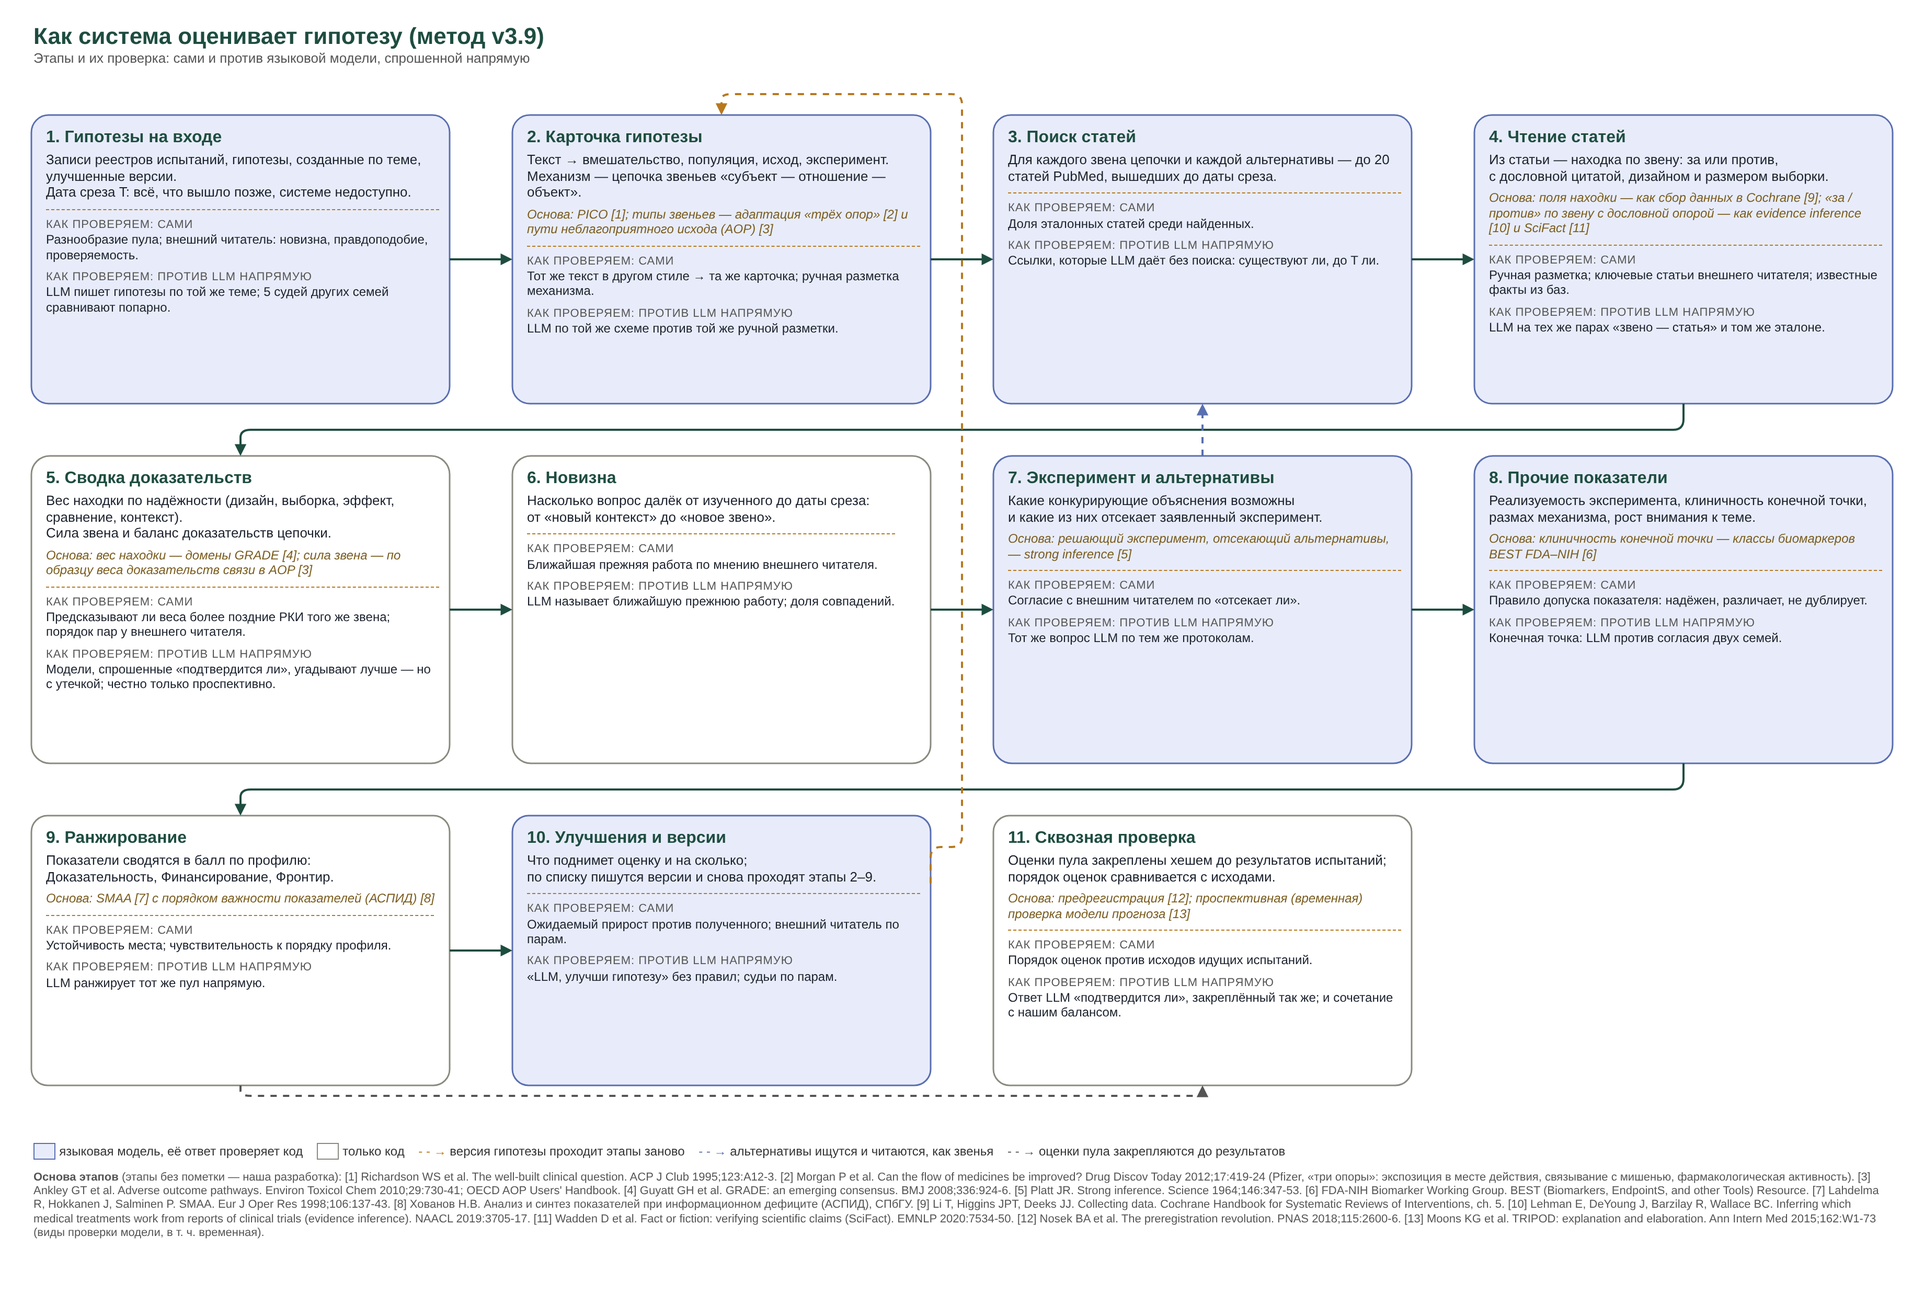
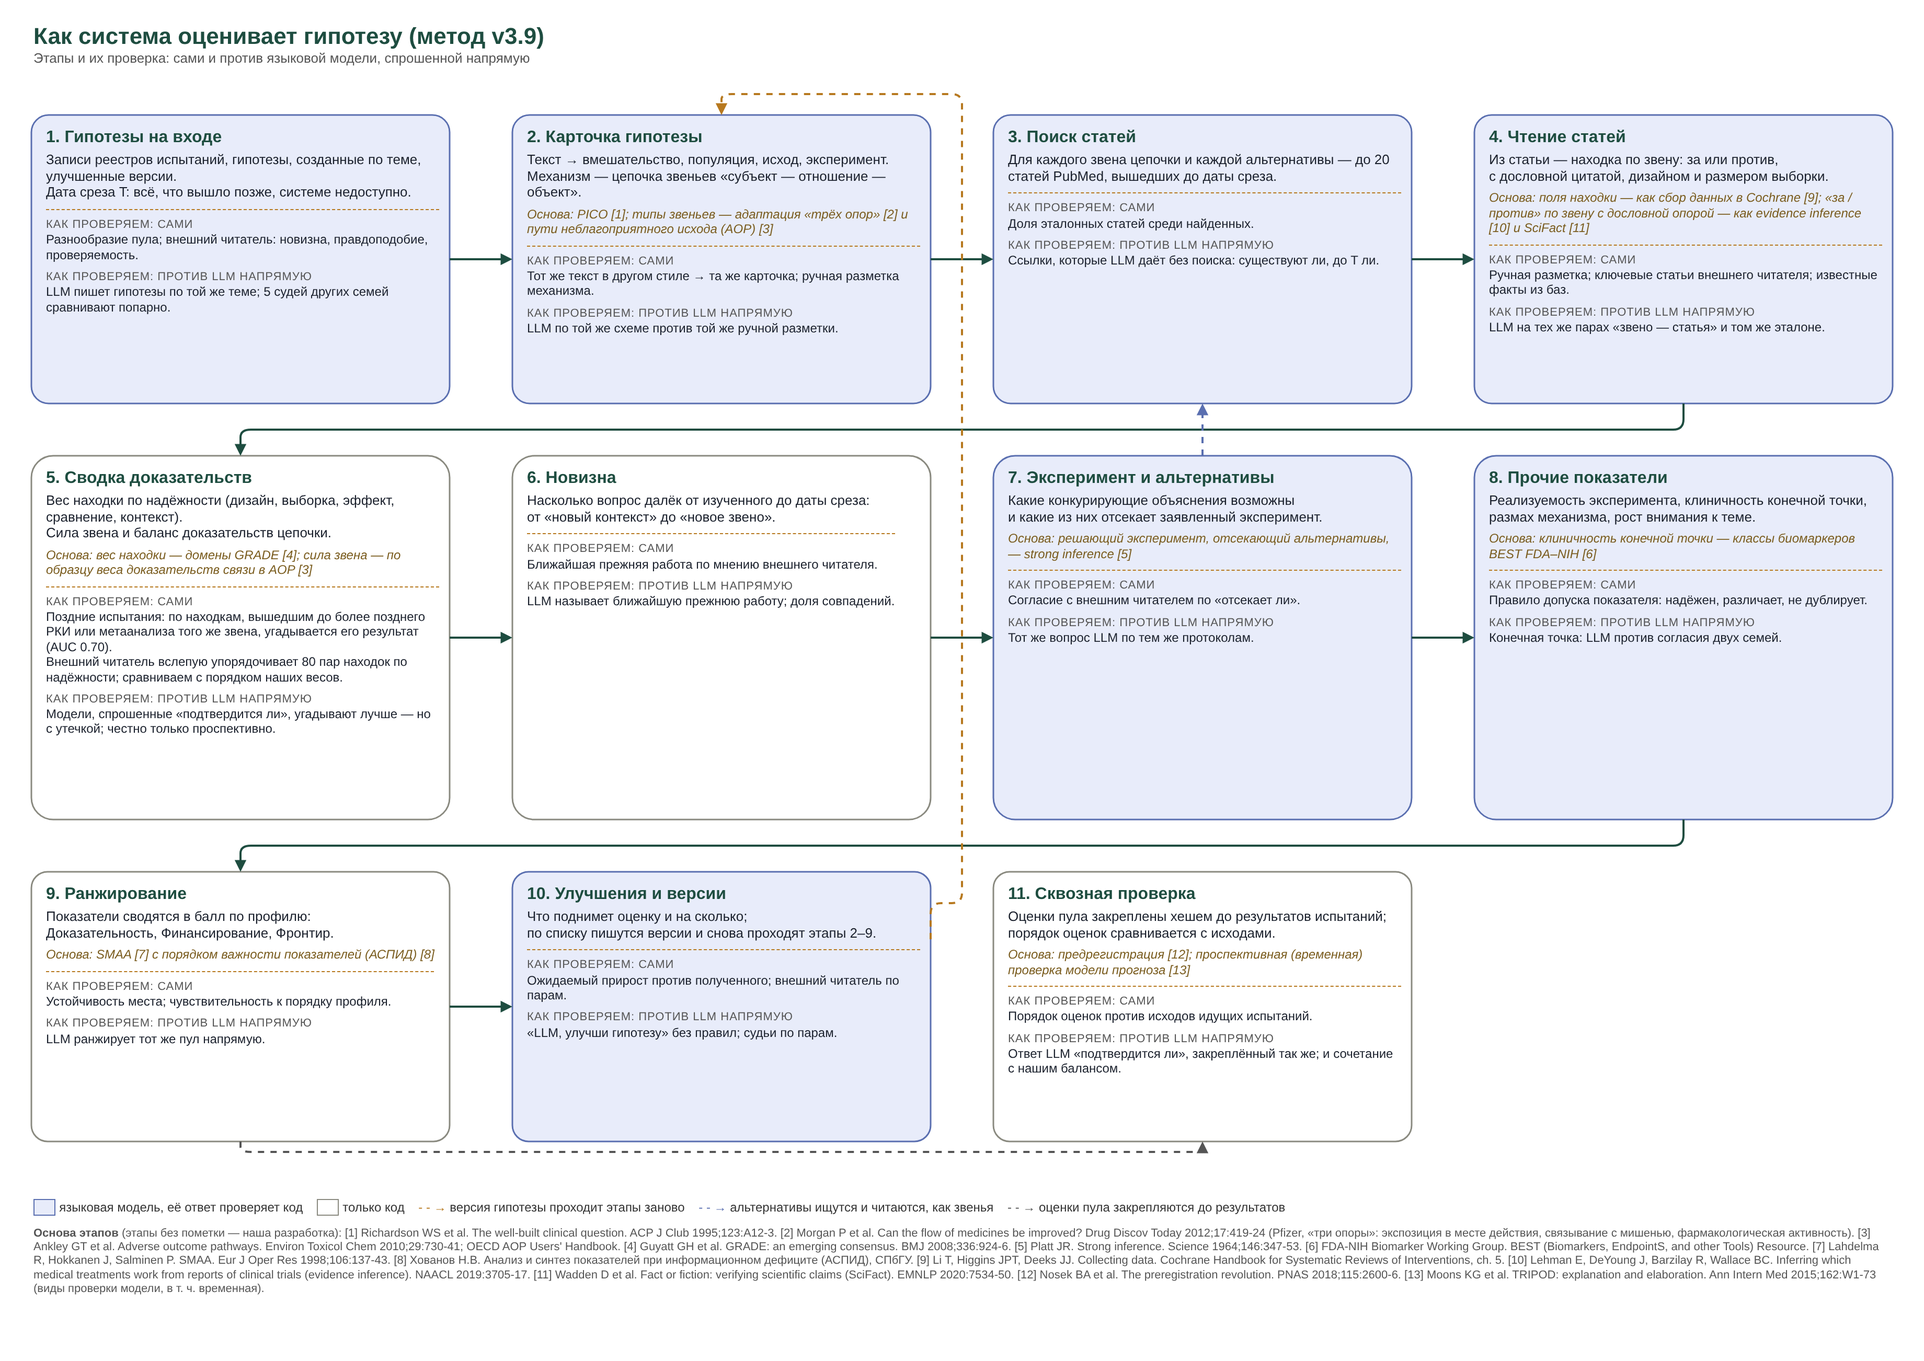
Flow scheme: formulas with plain explanations (record weight, null by power, link strength, balance, I, ASPID), stage 5 checks and reasons in plain words, no date in stage 2; backlog: reviews as pointers to primary studies, meta-analysis double count
Claude-Session: https://claude.ai/code/session_015QaY8wcM8f6FoFe6WxnTtU

diff --git a/docs/system/build_flow.py b/docs/system/build_flow.py
@@ -23,7 +23,7 @@ STAGES = [
          own=["Разнообразие пула; внешний читатель: новизна, правдоподобие, проверяемость."],
          base_llm=["LLM пишет гипотезы по той же теме; 5 судей других семей сравнивают попарно."],
          why=["У гипотез из реестров есть дата и будущий исход: отбор проверяется без утечки."]),
-    dict(name="2. Карточка гипотезы", params="температура 0 — меньше разброс между прогонами (проверено 2026-11-02); 2 разбора — на H49 один разбор пропустил механизм (задано, проверим устойчивостью); до 3 попыток, до 8 звеньев — задано.", basis="PICO [1]; типы звеньев — адаптация «трёх опор» [2] и пути неблагоприятного исхода (AOP) [3]", kind="llm",
+    dict(name="2. Карточка гипотезы", params="температура 0 — меньше разброс между прогонами (проверено); 2 разбора — на H49 один разбор пропустил механизм (задано, проверим устойчивостью); до 3 попыток, до 8 звеньев — задано.", basis="PICO [1]; типы звеньев — адаптация «трёх опор» [2] и пути неблагоприятного исхода (AOP) [3]", kind="llm",
          base=["Текст → вмешательство, популяция, исход, эксперимент.",
                "Механизм — цепочка звеньев «субъект — отношение — объект»."],
          llm=['Разбирает текст по схеме и закрытым спискам; два независимых разбора при температуре 0.'],
@@ -46,13 +46,13 @@ STAGES = [
          own=["Ручная разметка; ключевые статьи внешнего читателя; известные факты из баз."],
          base_llm=["LLM на тех же парах «звено — статья» и том же эталоне."],
          why=["Цитата делает каждую оценку проверяемой и не даёт модели подставить память."]),
-    dict(name="5. Сводка доказательств", params="S = 5/6 при F = 0.6 — опорная точка прежней шкалы; полный вес выборки от 300 человек и мощность к d = 0.4 — условные пороги; форма множителей проверена на эталонах (правило 0.03).", basis="вес находки — домены GRADE [4]; сила звена — по образцу веса доказательств связи в AOP [3]", kind="code",
+    dict(name="5. Сводка доказательств", formulas=['Вес находки w = дизайн × точность × эффект × сравнение × контекст. Дизайн: РКИ и метаанализ 1, наблюдательное 1/2, обзор, животные, клетки 1/4. Точность = min(1, ln n / ln 300). Эффект: средний и выше 1, малый или не указан 1/2. Сравнение: между группами 1, иначе 1/2. Контекст: другая популяция, доза, вид 1/2.', 'Нулевой результат весит мощностью исследования заметить эффект d = 0.4: малое исследование с нулём почти ничего не опровергает.', 'Сила звена S = 1 / (1 + e^(−2.68·(F − A))): каждая находка сдвигает уверенность на свой вес; F = A даёт 0.5; одна находка с F = 0.6 даёт 5/6.', 'Баланс = среднее (2S − 1) по местам цепочки с данными: от −1 (данные против) до +1 (подтверждено).'], params="S = 5/6 при F = 0.6 — опорная точка прежней шкалы; полный вес выборки от 300 человек и мощность к d = 0.4 — условные пороги; форма множителей проверена на эталонах (правило 0.03).", basis="вес находки — домены GRADE [4]; сила звена — по образцу веса доказательств связи в AOP [3]", kind="code",
          base=["Вес находки по надёжности (дизайн, выборка, эффект, сравнение, контекст).",
                "Сила звена и баланс доказательств цепочки."],
          code=["Вес по доменам GRADE; сила звена из суммы «за» и «против»; баланс — среднее по звеньям с данными."],
-         own=["Предсказывают ли веса более поздние РКИ того же звена; порядок пар у внешнего читателя."],
+         own=["Поздние испытания: по находкам, вышедшим до более позднего РКИ или метаанализа того же звена, угадывается его результат (AUC 0.70).", "Внешний читатель вслепую упорядочивает 80 пар находок по надёжности; сравниваем с порядком наших весов."],
          base_llm=["Модели, спрошенные «подтвердится ли», угадывают лучше — но с утечкой; честно только проспективно."],
-         why=["Общепринятые домены GRADE; уровни выбраны по эталонам, а не по исходам."]),
+         why=["Каждый множитель — домен GRADE: дизайн (исходный уровень доверия), точность, крупный эффект, сравнение (часть риска смещения), непрямота.", "Исходы испытаний шумные и их мало, поэтому уровни подбирались по другим эталонам; из равных по качеству выбран более простой."]),
     dict(name="6. Новизна", params="новое звено — меньше 5 статей PubMed до T — порог задан до пилота, не калиброван.", kind="code",
          base=["Насколько вопрос далёк от изученного до даты среза:",
                "от «новый контекст» до «новое звено»."],
@@ -60,7 +60,7 @@ STAGES = [
          own=["Ближайшая прежняя работа по мнению внешнего читателя."],
          base_llm=["LLM называет ближайшую прежнюю работу; доля совпадений."],
          why=["Суждение модели о новизне ненадёжно; отсутствие данных — не новизна."]),
-    dict(name="7. Эксперимент и альтернативы", params="потолок 1.5 — проверен (потолки 0.5–3: с 1.5 согласие с внешним читателем не растёт, насыщение 7%); до 5 альтернатив и 25 аннотаций — заданы.", basis="решающий эксперимент, отсекающий альтернативы, — strong inference [5]", kind="llm",
+    dict(name="7. Эксперимент и альтернативы", formulas=['Информативность I = min(1, Σ a·d / 1.5): a = 2(S − 0.5) — опора альтернативы в литературе (0 без опоры); d = 1 отсекает, 0.5 ослабляет, 0 не различает; 1.5 — полторы хорошо подкреплённые отсечённые альтернативы.'], params="потолок 1.5 — проверен (потолки 0.5–3: с 1.5 согласие с внешним читателем не растёт, насыщение 7%); до 5 альтернатив и 25 аннотаций — заданы.", basis="решающий эксперимент, отсекающий альтернативы, — strong inference [5]", kind="llm",
          base=["Какие конкурирующие объяснения возможны",
                "и какие из них отсекает заявленный эксперимент."],
          llm=['Называет альтернативы; по тексту реестра для каждой группы пишет, что предсказывают гипотеза и альтернатива, с дословной фразой.'],
@@ -76,7 +76,7 @@ STAGES = [
          own=["Правило допуска показателя: надёжен, различает, не дублирует."],
          base_llm=["Конечная точка: LLM против согласия двух семей."],
          why=["Профилю «Финансирование» нужны цена и готовность."]),
-    dict(name="9. Ранжирование", params="10 000 розыгрышей весов — задано.", basis="SMAA [7] с порядком важности показателей (АСПИД) [8]", kind="code",
+    dict(name="9. Ранжирование", formulas=['Каждый показатель на фиксированной шкале 0–1. 10 000 раз разыгрываются веса, согласные с порядком важности профиля (старший не легче младшего); балл — средняя взвешенная сумма, «в топ-5» — доля розыгрышей, где гипотеза в пятёрке пула.'], params="10 000 розыгрышей весов — задано.", basis="SMAA [7] с порядком важности показателей (АСПИД) [8]", kind="code",
          base=["Показатели сводятся в балл по профилю:",
                "Доказательность, Финансирование, Фронтир."],
          code=["Профиль задаёт только порядок важности; АСПИД разыгрывает веса и даёт балл и «в топ-5»."],
@@ -165,6 +165,10 @@ def stage_html(s: dict, layers: list[str]) -> tuple[str, int]:
             h, k = section("Только код", s["code"], BW)
             html += h
             n += k
+    if s.get("formulas") and ("impl" in layers):        # formulas with one plain sentence each (user 2026-11-11)
+        h, k = section("Формулы", s["formulas"], BW)
+        html += h
+        n += k
     if "check" in layers:
         h, k = section("Как проверяем: сами", s["own"], BW)
         h2, k2 = section("Как проверяем: против LLM напрямую", s["base_llm"], BW)

diff --git a/docs/backlog.md b/docs/backlog.md
@@ -30,3 +30,5 @@ Items the user decided to defer; each points to its spec. Kept until done or dro
 | 2026-11-11 | Reading: a record needs a result (a comparison or an effect); consensus phrases of reviews without data ("resistance exercise is the mainstay of treatment") are not records | H49 walkthrough, stage 4 | check on the reading gold (packs 8, 9) before a manual change |
 | 2026-11-11 | Re-run H49 under the new rules (two parses, normaliser v11, exact-population query, the link's own outcome, alternatives on their own terms, reader v11): is Vikberg 2019 found, what happens to body composition | H49 walkthrough | dry run with the named price (about 0.05-0.1 USD), off-peak, user's go |
 | 2026-11-11 | Hyperparameters set without tuning: 4 queries per link, 5 seed papers for the citation step, the PubMed absence threshold 5, 2 parses of the card | flow scheme, layer "why" (Параметры) | at the recalibration: sensitivity on the retrieval gold (2 / 4 / 6 queries, 3 / 5 / 10 seeds) and on the card stability |
+| 2026-11-11 | Sources: a review is a pointer, not evidence: (a) review kind from PubMed publication types by code (systematic review / meta-analysis / narrative review); (b) for a review record on a link, read its references (NCBI elink, free) as candidates for the link, and the review weighs 0 when its primary studies are read (no double count); (c) the certainty of a meta-analysis when its abstract or results state it (GRADE) | H49 walkthrough, stage 5 | user's decision on (a)-(c); then a check on the reading gold (packs 8, 9) |
+| 2026-11-11 | Double count of a meta-analysis and the trials inside it (grouping is by trial id only) | H49 walkthrough, stage 5 | with (b) above or the full-text reading |
